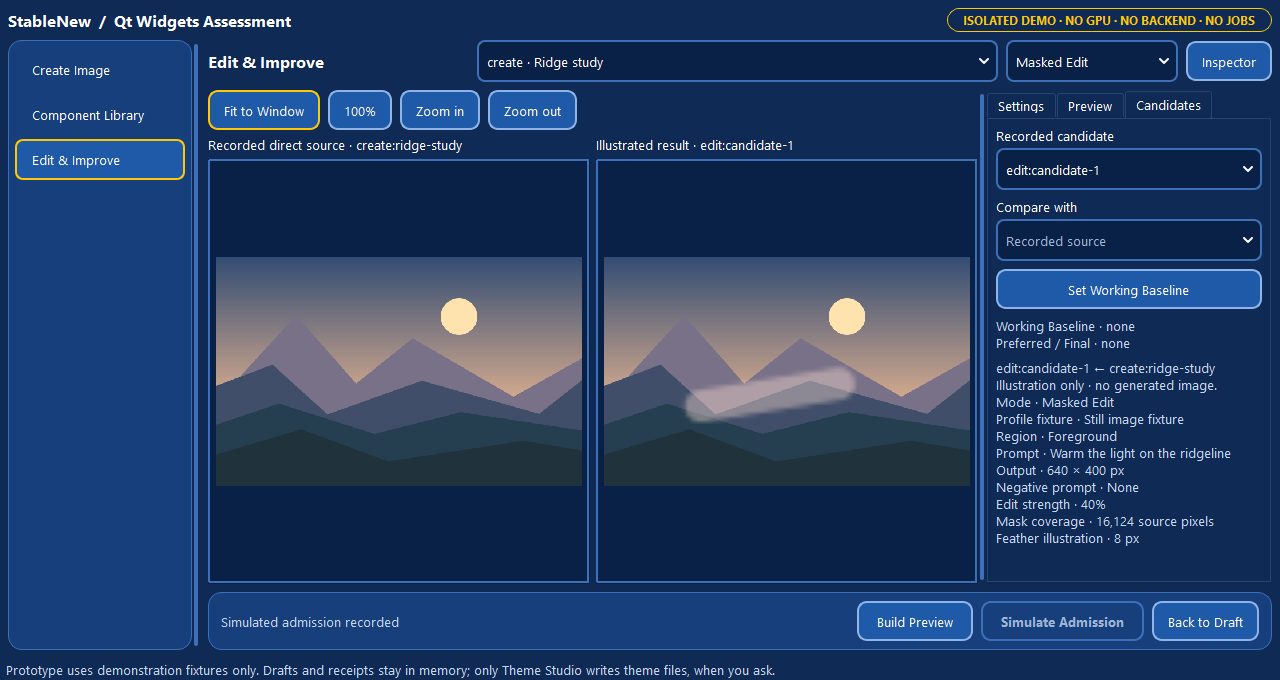
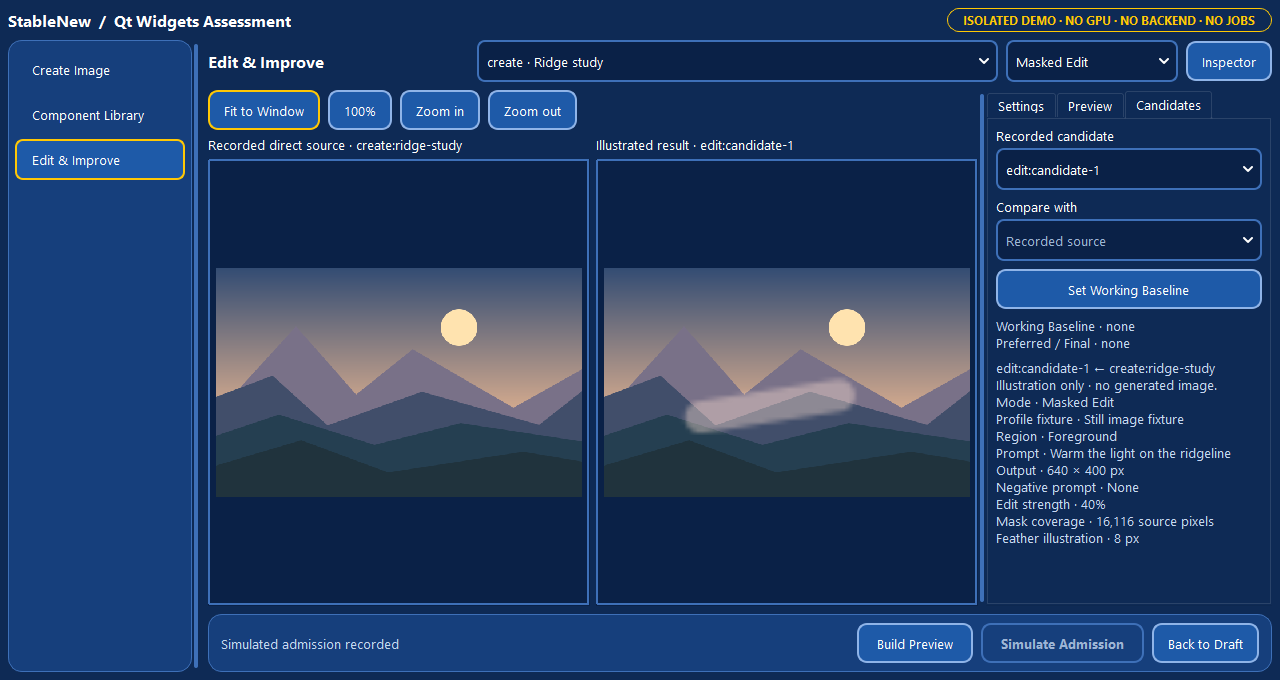
docs(qt-ds-03): refresh Edit evidence after QT-DS-02 rebase

diff --git a/design/qt_widgets/docs/evidence/edit_native_blue-modern.md b/design/qt_widgets/docs/evidence/edit_native_blue-modern.md
@@ -4,13 +4,13 @@ Theme `blue-modern` · Qt platform `windows` · requested scale 1.0 · screen DP
 
 | Layout | Requested → actual client | Canvas | Inspector | Scroll to advanced | Clipped | Horizontal overflow | Tab stops · missing | Preview |
 |---|---|---|---|---|---|---|---|---|
-| editor | 960x600 → 960×600 | 482×263 | 238×383 | 70 px | none | 0 px | 22 · none | Current / ready |
-| inspector | 960x600 → 960×600 | 278×265 | 238×385 | 68 px | none | 0 px | 22 · none | Current / ready |
-| editor | 1280x680 → 1280×680 | 770×343 | 270×463 | 0 px | none | 0 px | 22 · none | Current / ready |
-| inspector | 1280x680 → 1280×680 | 566×345 | 270×465 | 0 px | none | 0 px | 22 · none | Current / ready |
-| editor | 1366x768 → 1366×768 | 856×431 | 282×551 | 0 px | none | 0 px | 22 · none | Current / ready |
-| inspector | 1366x768 → 1366×768 | 652×433 | 282×553 | 0 px | none | 0 px | 22 · none | Current / ready |
-| editor | 1440x900 → 1440×900 | 925×563 | 282×683 | 0 px | none | 0 px | 22 · none | Current / ready |
-| inspector | 1440x900 → 1440×900 | 721×565 | 282×685 | 0 px | none | 0 px | 22 · none | Current / ready |
-| editor | 1920x1080 → 1920×1080 | 1354×743 | 282×863 | 0 px | none | 0 px | 22 · none | Current / ready |
-| inspector | 1920x1080 → 1920×1080 | 1150×745 | 282×865 | 0 px | none | 0 px | 22 · none | Current / ready |
+| editor | 960x600 → 960×600 | 482×285 | 238×405 | 48 px | none | 0 px | 22 · none | Current / ready |
+| inspector | 960x600 → 960×600 | 278×287 | 238×407 | 46 px | none | 0 px | 22 · none | Current / ready |
+| editor | 1280x680 → 1280×680 | 770×365 | 282×485 | 0 px | none | 0 px | 22 · none | Current / ready |
+| inspector | 1280x680 → 1280×680 | 566×367 | 282×487 | 0 px | none | 0 px | 22 · none | Current / ready |
+| editor | 1366x768 → 1366×768 | 856×453 | 282×573 | 0 px | none | 0 px | 22 · none | Current / ready |
+| inspector | 1366x768 → 1366×768 | 652×455 | 282×575 | 0 px | none | 0 px | 22 · none | Current / ready |
+| editor | 1440x900 → 1440×900 | 925×585 | 282×705 | 0 px | none | 0 px | 22 · none | Current / ready |
+| inspector | 1440x900 → 1440×900 | 721×587 | 282×707 | 0 px | none | 0 px | 22 · none | Current / ready |
+| editor | 1920x1080 → 1920×1080 | 1354×765 | 282×885 | 0 px | none | 0 px | 22 · none | Current / ready |
+| inspector | 1920x1080 → 1920×1080 | 1150×767 | 282×887 | 0 px | none | 0 px | 22 · none | Current / ready |

diff --git a/design/qt_widgets/docs/evidence/edit_native_concept-a.md b/design/qt_widgets/docs/evidence/edit_native_concept-a.md
@@ -4,13 +4,13 @@ Theme `concept-a` · Qt platform `windows` · requested scale 1.0 · screen DPR 
 
 | Layout | Requested → actual client | Canvas | Inspector | Scroll to advanced | Clipped | Horizontal overflow | Tab stops · missing | Preview |
 |---|---|---|---|---|---|---|---|---|
-| editor | 960x600 → 960×600 | 482×263 | 238×383 | 70 px | none | 0 px | 22 · none | Current / ready |
-| inspector | 960x600 → 960×600 | 278×265 | 238×385 | 68 px | none | 0 px | 22 · none | Current / ready |
-| editor | 1280x680 → 1280×680 | 770×343 | 270×463 | 0 px | none | 0 px | 22 · none | Current / ready |
-| inspector | 1280x680 → 1280×680 | 566×345 | 270×465 | 0 px | none | 0 px | 22 · none | Current / ready |
-| editor | 1366x768 → 1366×768 | 856×431 | 282×551 | 0 px | none | 0 px | 22 · none | Current / ready |
-| inspector | 1366x768 → 1366×768 | 652×433 | 282×553 | 0 px | none | 0 px | 22 · none | Current / ready |
-| editor | 1440x900 → 1440×900 | 925×563 | 282×683 | 0 px | none | 0 px | 22 · none | Current / ready |
-| inspector | 1440x900 → 1440×900 | 721×565 | 282×685 | 0 px | none | 0 px | 22 · none | Current / ready |
-| editor | 1920x1080 → 1920×1080 | 1354×743 | 282×863 | 0 px | none | 0 px | 22 · none | Current / ready |
-| inspector | 1920x1080 → 1920×1080 | 1150×745 | 282×865 | 0 px | none | 0 px | 22 · none | Current / ready |
+| editor | 960x600 → 960×600 | 482×285 | 238×405 | 48 px | none | 0 px | 22 · none | Current / ready |
+| inspector | 960x600 → 960×600 | 278×287 | 238×407 | 46 px | none | 0 px | 22 · none | Current / ready |
+| editor | 1280x680 → 1280×680 | 770×365 | 282×485 | 0 px | none | 0 px | 22 · none | Current / ready |
+| inspector | 1280x680 → 1280×680 | 566×367 | 282×487 | 0 px | none | 0 px | 22 · none | Current / ready |
+| editor | 1366x768 → 1366×768 | 856×453 | 282×573 | 0 px | none | 0 px | 22 · none | Current / ready |
+| inspector | 1366x768 → 1366×768 | 652×455 | 282×575 | 0 px | none | 0 px | 22 · none | Current / ready |
+| editor | 1440x900 → 1440×900 | 925×585 | 282×705 | 0 px | none | 0 px | 22 · none | Current / ready |
+| inspector | 1440x900 → 1440×900 | 721×587 | 282×707 | 0 px | none | 0 px | 22 · none | Current / ready |
+| editor | 1920x1080 → 1920×1080 | 1354×765 | 282×885 | 0 px | none | 0 px | 22 · none | Current / ready |
+| inspector | 1920x1080 → 1920×1080 | 1150×767 | 282×887 | 0 px | none | 0 px | 22 · none | Current / ready |

diff --git a/design/qt_widgets/docs/EDIT_WORKFLOW.md b/design/qt_widgets/docs/EDIT_WORKFLOW.md
@@ -53,23 +53,23 @@ stays outside the inspector scroll area. Comparison replaces the canvas in the s
 **Alternative B · Adjustable inspector.** Run with `--edit-layout inspector` to put source
 and mode in a dedicated left rail. It keeps those controls grouped and saves 2 px of height
 at each size. The extra rail costs 204 px of canvas width at every measured size. At 960×600
-it reduces the canvas from 482×263 to 278×265, which leaves a much smaller fitted image.
-At 1280×680, A provides 770×343 compared with 566×345 in B. Both layouts needed no scrolling
+it reduces the canvas from 482×285 to 278×287, which leaves a much smaller fitted image.
+At 1280×680, A provides 770×365 compared with 566×367 in B. Both layouts needed no scrolling
 to reach Advanced at 1280×680. A therefore keeps the source controls in the heading and
 allocates the width to the image.
 
 | Native Windows client | A canvas | B canvas |
 |---|---:|---:|
-| 960×600 | 482×263 | 278×265 |
-| 1280×680 | 770×343 | 566×345 |
-| 1366×768 | 856×431 | 652×433 |
-| 1440×900 | 925×563 | 721×565 |
-| 1920×1080 | 1354×743 | 1150×745 |
+| 960×600 | 482×285 | 278×287 |
+| 1280×680 | 770×365 | 566×367 |
+| 1366×768 | 856×453 | 652×455 |
+| 1440×900 | 925×585 | 721×587 |
+| 1920×1080 | 1354×765 | 1150×767 |
 
-Both reference themes produced the dimensions above. In 20 native masked-edit layout cases,
+Both reference themes produced the dimensions above after the rebase onto QT-DS-02. In 20 native masked-edit layout cases,
 all client sizes matched their request. The probe found no clipped persistent controls,
 horizontal inspector overflow or missing enabled Tab stops. Advanced was reachable with up to
-70 px of vertical scrolling at 960×600. The native interaction tests cover keyboard selection,
+48 px of vertical scrolling at 960×600. The native interaction tests cover keyboard selection,
 Tab and Shift+Tab, focus, pointer gestures, wheel behavior, replacement, mask cancellation,
 resize, theme switching and window destruction. These are scripted walkthroughs and reachability
 measurements. Operator preference and task-time comparisons still need human sessions.

diff --git a/design/qt_widgets/docs/evidence/edit_SIMULATED-scale-1.5_blue-modern.md b/design/qt_widgets/docs/evidence/edit_SIMULATED-scale-1.5_blue-modern.md
@@ -4,4 +4,4 @@ Theme `blue-modern` · Qt platform `windows` · requested scale 1.5 · screen DP
 
 | Layout | Requested → actual client | Canvas | Inspector | Scroll to advanced | Clipped | Horizontal overflow | Tab stops · missing | Preview |
 |---|---|---|---|---|---|---|---|---|
-| editor | 1280x680 → 1280×680 | 774×341 | 266×463 | 0 px | none | 0 px | 22 · none | Current / ready |
+| editor | 1280x680 → 1280×680 | 774×363 | 266×485 | 0 px | none | 0 px | 22 · none | Current / ready |
